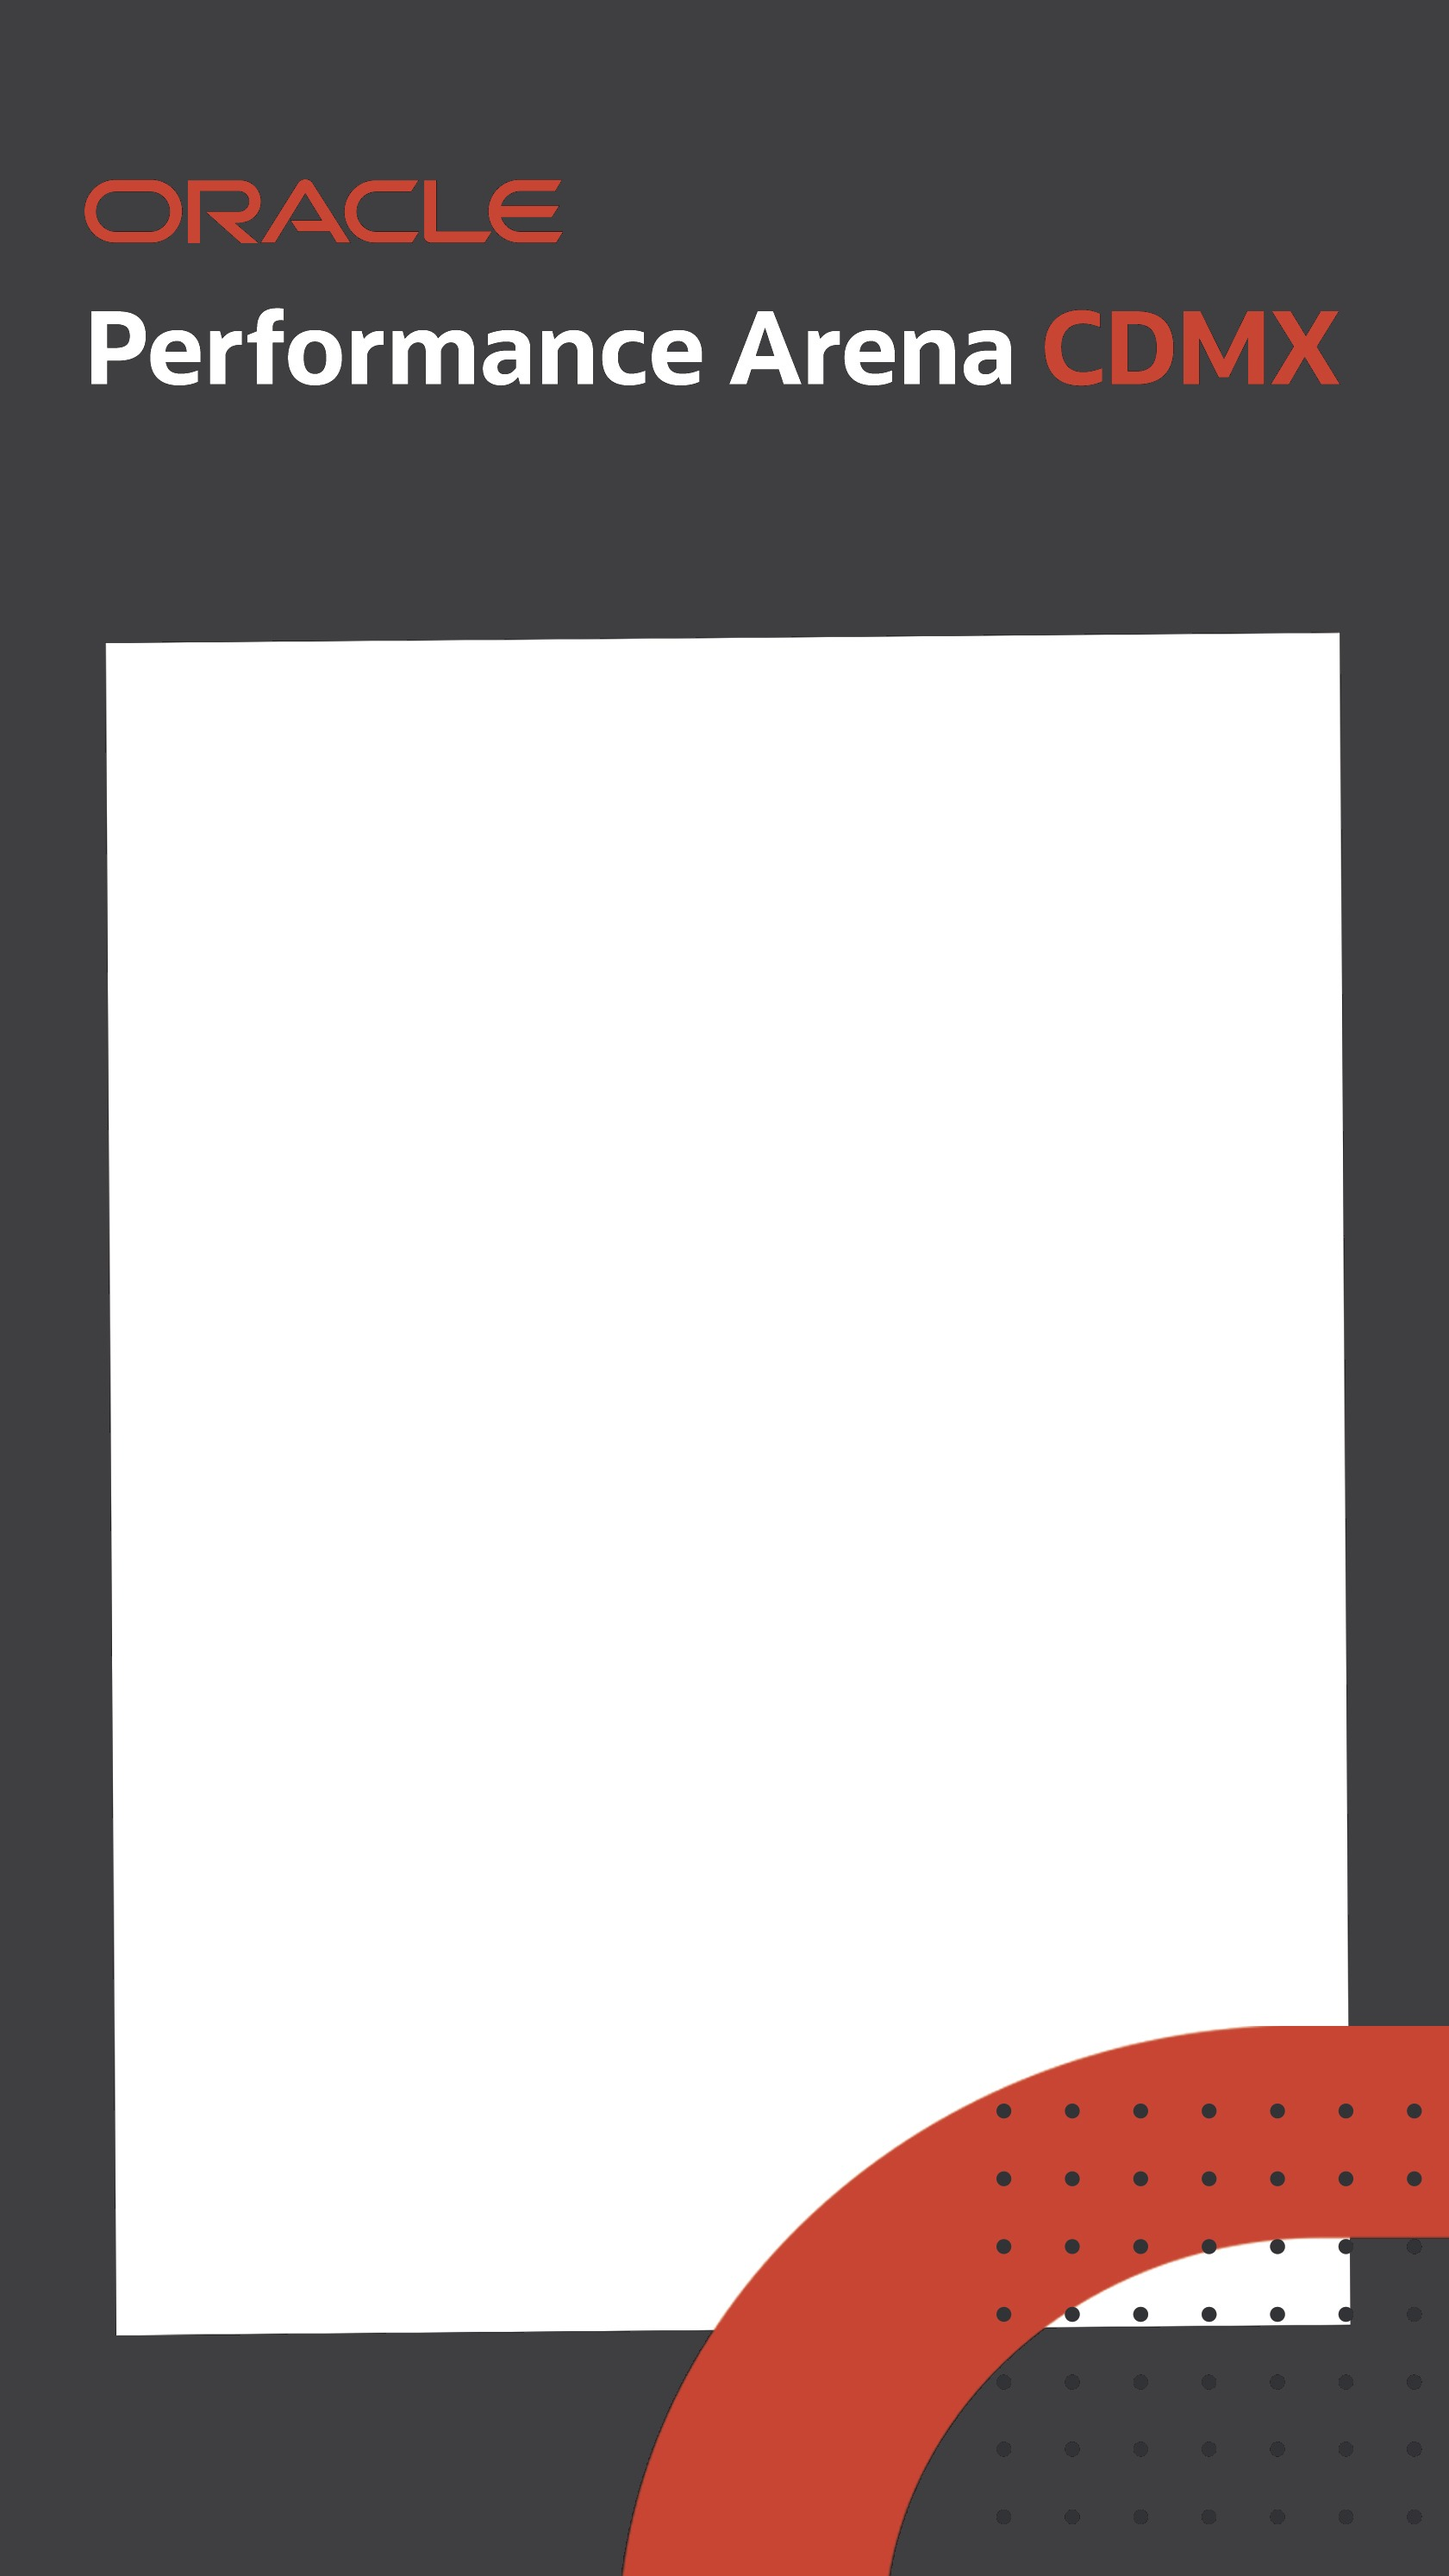
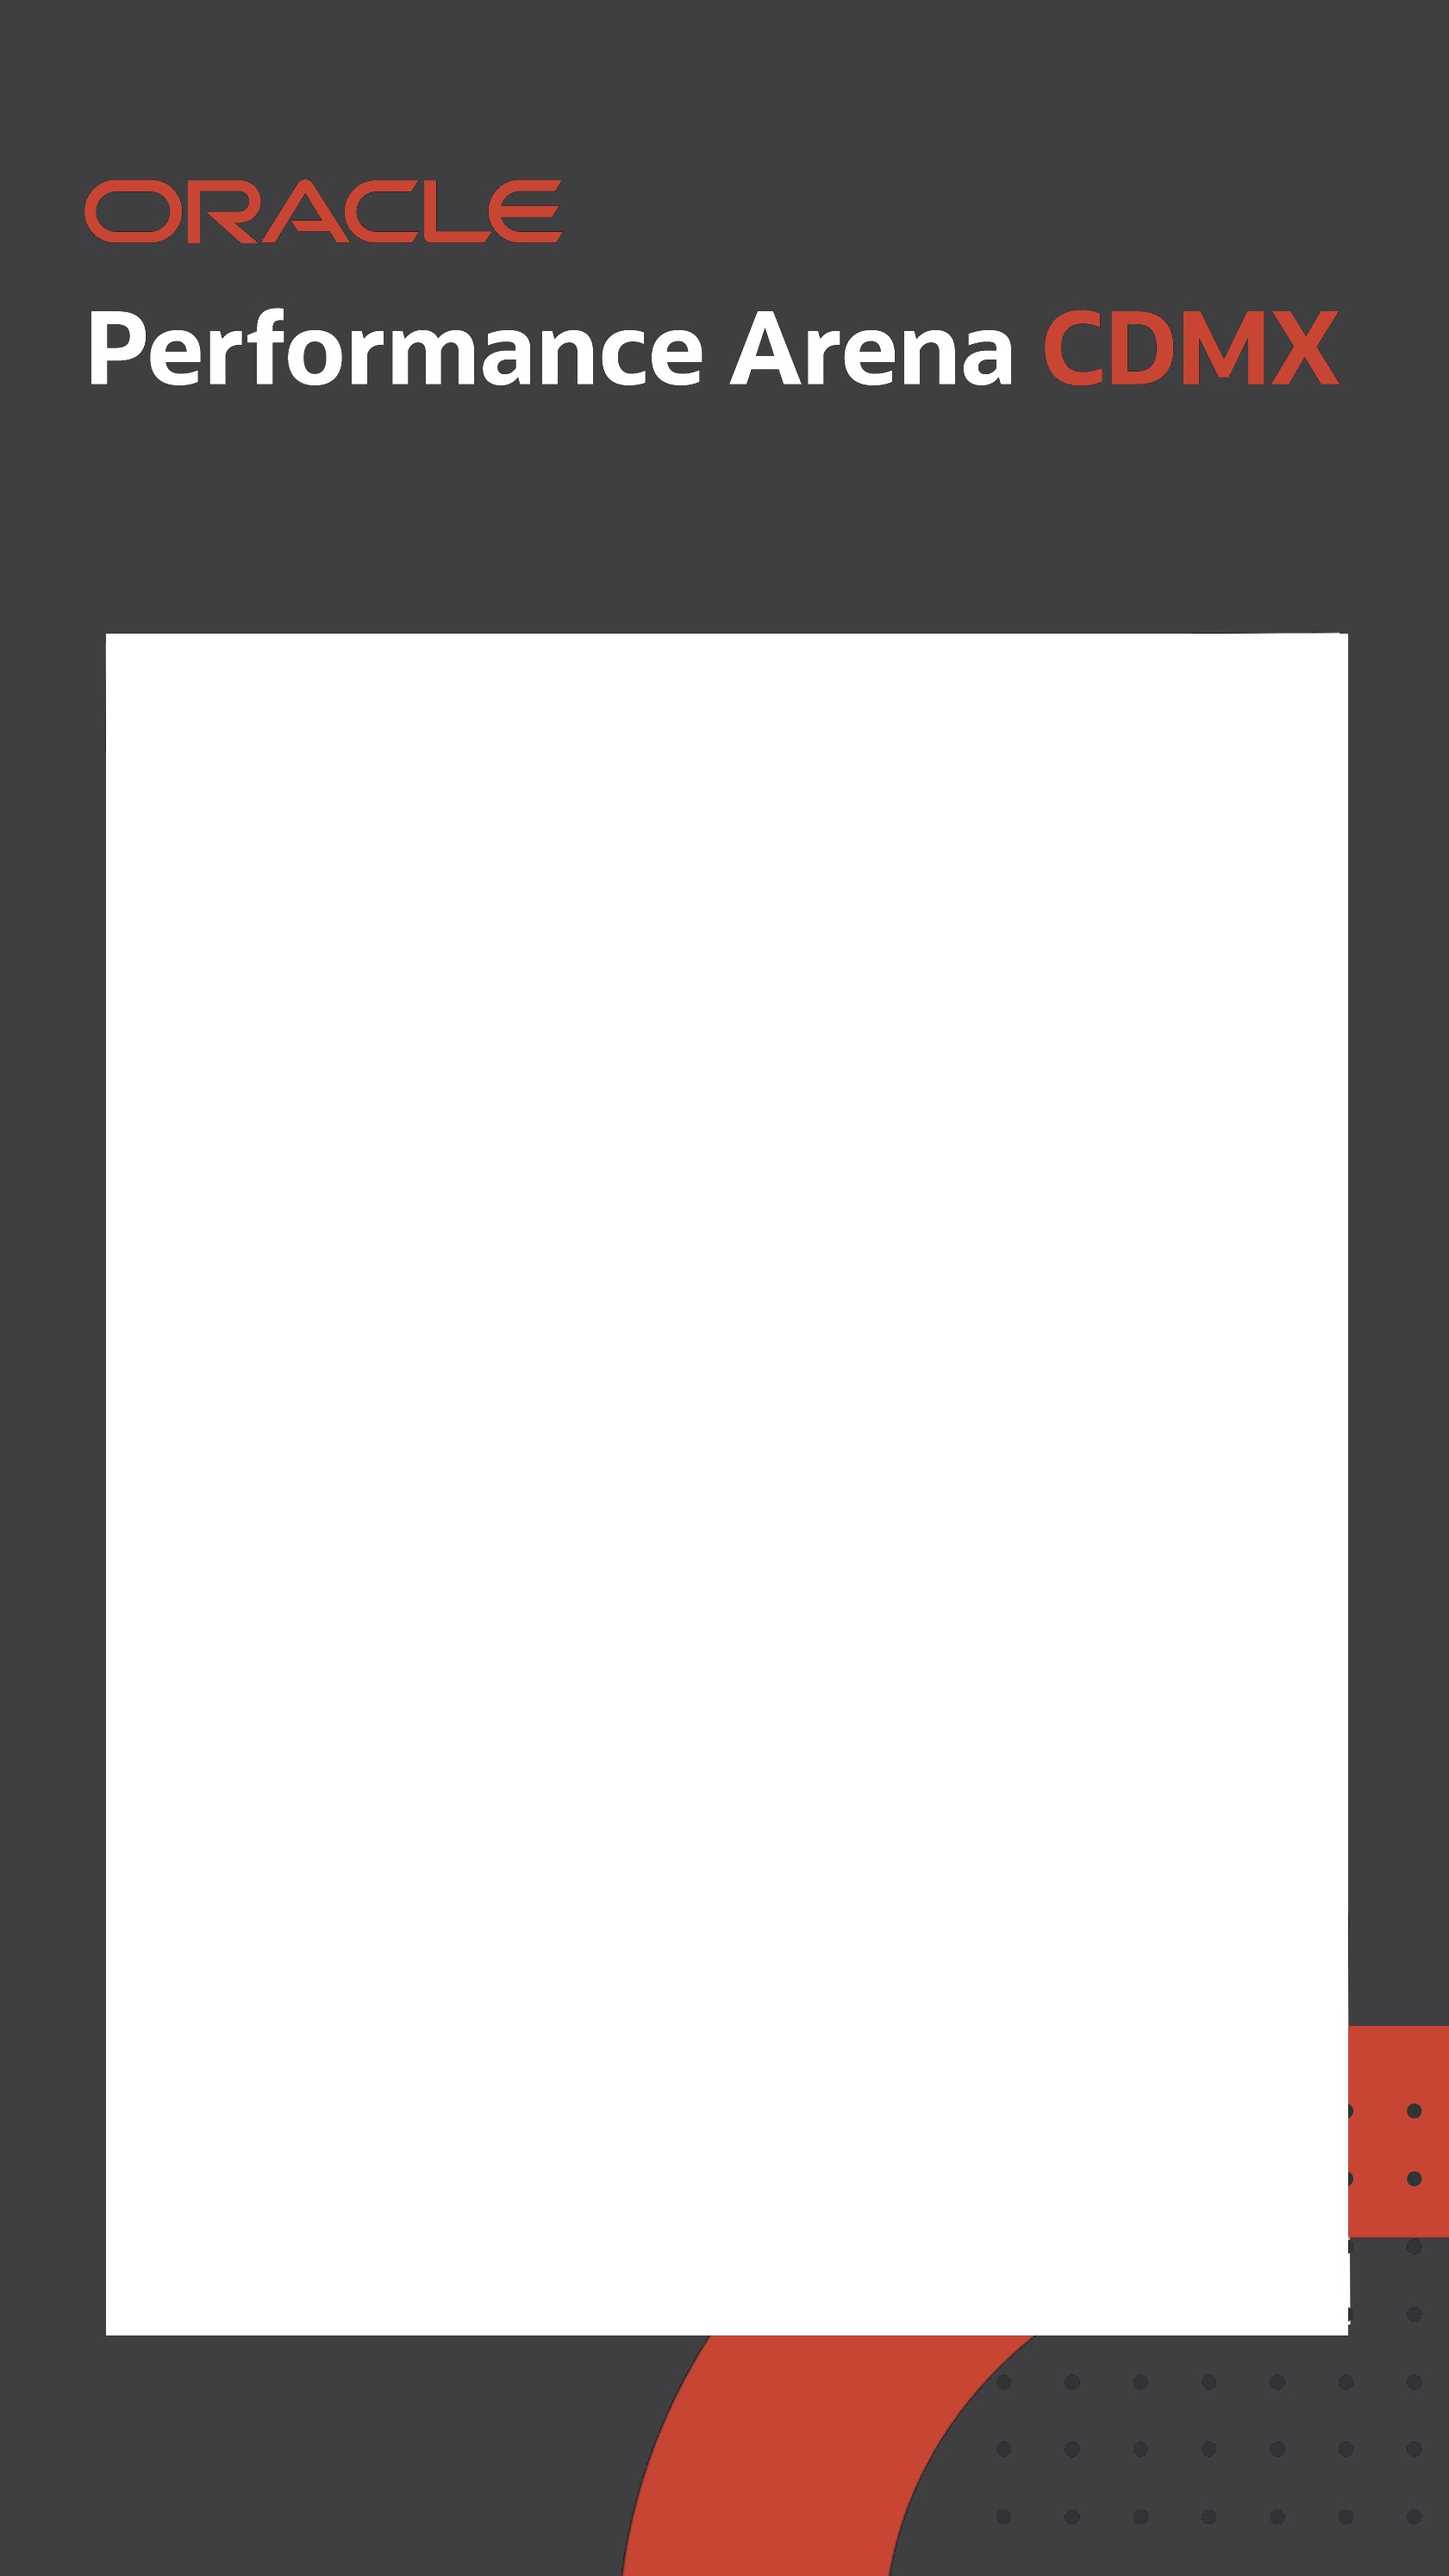
Clean digital frame photo panel

Changed region(s): [[0.4949, 0.7781, 0.928, 0.9337], [0.0619, 0.498, 0.0928, 0.9026], [0.8971, 0.249, 0.928, 0.3112]]

diff --git a/app/(main)/camera/page.tsx b/app/(main)/camera/page.tsx
@@ -179,10 +179,10 @@ export default function CameraPage() {
           <div
             className="absolute z-30 overflow-hidden bg-white"
             style={{
-              top: "11.98%",
-              left: "6.31%",
-              width: "86.85%",
-              height: "78.68%",
+              top: "24.6%",
+              left: "7.32%",
+              width: "85.72%",
+              height: "66.06%",
             }}
           >
             <Camera

diff --git a/app/(main)/api/proxy/route.ts b/app/(main)/api/proxy/route.ts
@@ -57,10 +57,10 @@ export async function POST(req: NextRequest) {
     const outputWidth = 1080;
     const outputHeight = 1920;
     const panel = {
-      left: 68,
-      top: 230,
-      width: 938,
-      height: 1511,
+      left: 79,
+      top: 472,
+      width: 926,
+      height: 1268,
     };
     const trimmedAvatarWithBackground = await sharp(originalImageBuffer)
       .flatten({ background: "#ffffff" })
